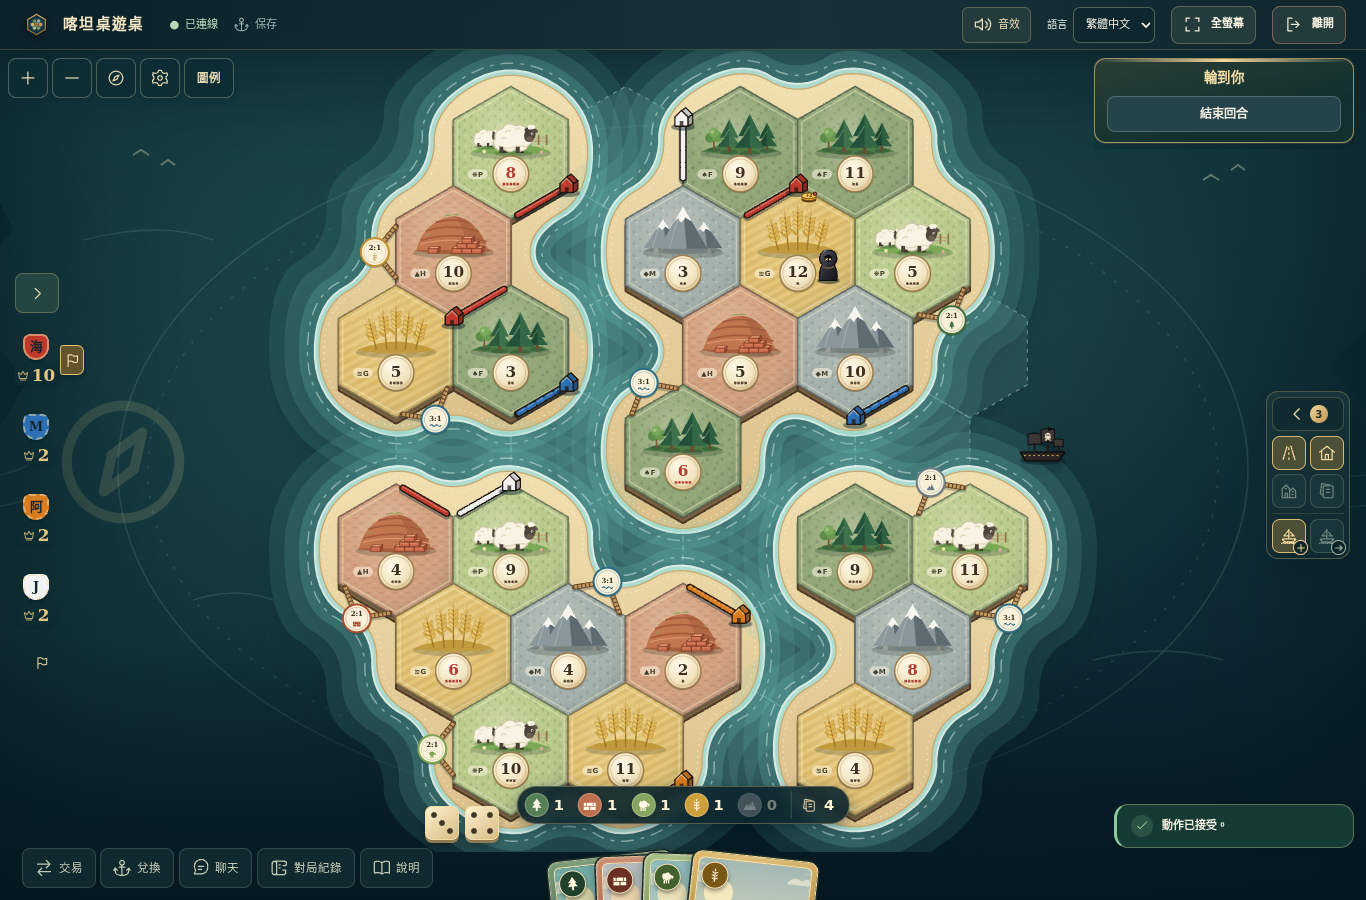
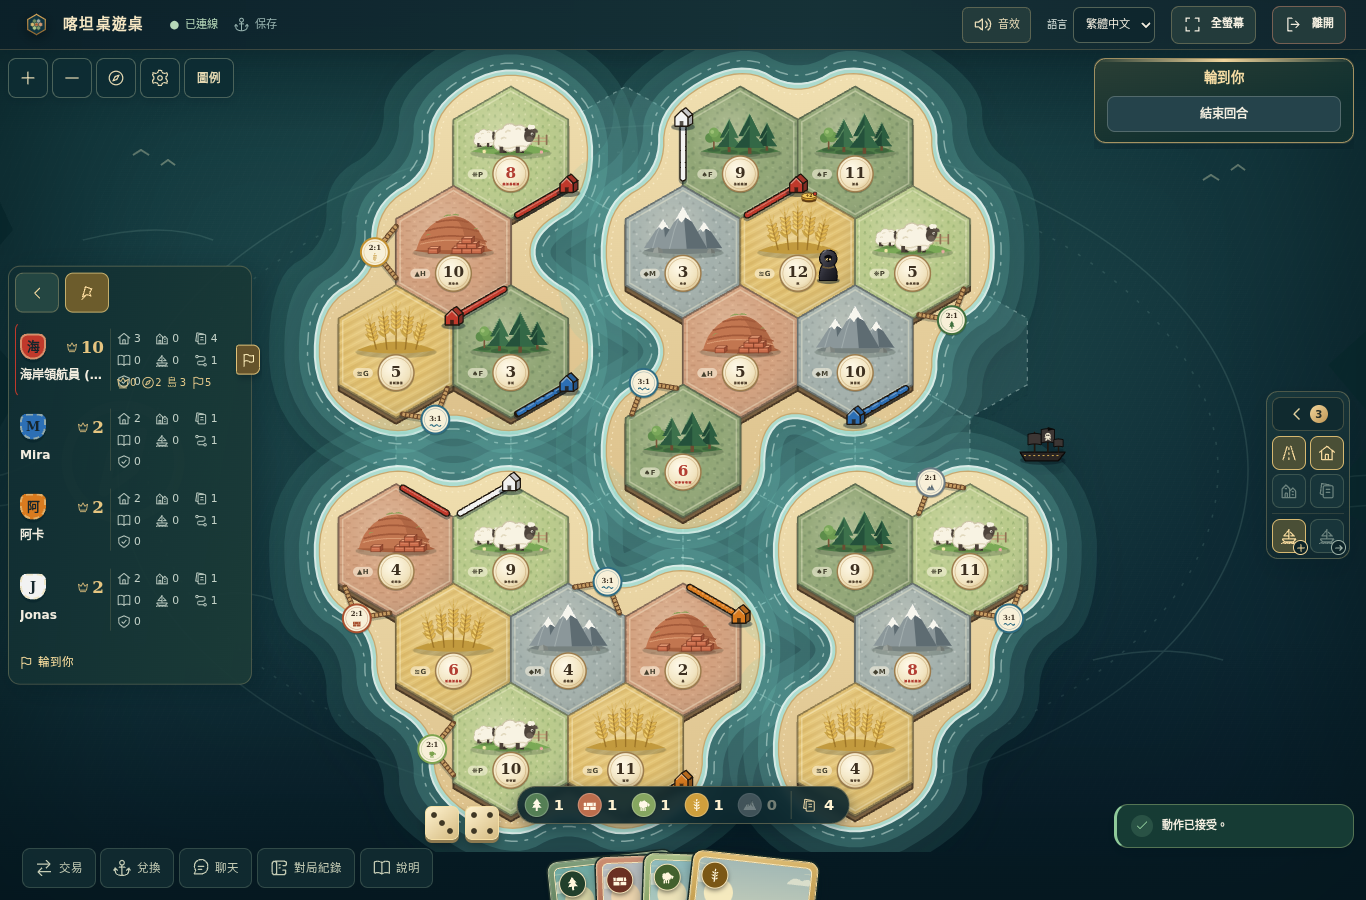
👷 ci(rules): drive the four islands finish across both renderers
Pin and expand the player panel to assert the island list (desktop and
phone), settle the second island in the 3D renderer and assert the
canvas token count. Waits and screenshots honour SF_TIMEOUT so a busy
machine does not flake. 10 curated captures.

Changed region(s): [[0.0, 0.28, 0.2152, 0.6844], [0.0, 0.7156, 0.0615, 0.7467]]

diff --git a/scripts/seafarers/capture_four_islands.py b/scripts/seafarers/capture_four_islands.py
@@ -133,10 +133,19 @@ def finish_live(contexts, pages, identity, game_id):
         ui_confirm(page)
 
     def expand_players(page_):
+        """Open the player panel and pin it (a hover preview closes when the pointer leaves)."""
         toggle = page_.get_by_test_id('players-toggle')
+        # 指標移到按鈕上就會開出預覽；先 hover 再看狀態，避免接著的點擊把預覽收掉。
+        toggle.hover()
+        page_.wait_for_timeout(600)
         if toggle.get_attribute('aria-expanded') != 'true':
             toggle.click()
+        pin = page_.get_by_test_id('players-pin')
+        expect(pin).to_be_visible()
+        if pin.get_attribute('aria-pressed') != 'true':
+            pin.click()
         page_.wait_for_timeout(500)
+        assert toggle.get_attribute('aria-expanded') == 'true'
 
     def check_islands_mark(page_, island):
         """The island list is visible text (touch has no title), the wording has no 'small'."""
@@ -206,7 +215,13 @@ def run():
                 expect(host.get_by_test_id('help-four-islands-bonus')).to_be_visible()
                 shot(host, 'help-four-islands-svg-desktop', f'setup done, home islands {home}; help panel shows the Four Islands rules')
             if count == 4:
-                finish_live(contexts, pages, identity, game_id)
+                try:
+                    finish_live(contexts, pages, identity, game_id)
+                except Exception:
+                    pages[0].screenshot(path=str(OUT / 'failure.png'), timeout=base.TIMEOUT)
+                    print('PLAYERS', pages[0].get_by_test_id('players-toggle').get_attribute('aria-expanded'),
+                          pages[0].locator('[data-testid^="players-islands"]').count(), flush=True)
+                    raise
             for context in contexts:
                 context.close()
         browser.close()

diff --git a/scripts/seafarers/capture.py b/scripts/seafarers/capture.py
@@ -145,7 +145,7 @@ def settle(page, ms=700):
 def shot(page, name, note='', ms=700):
     settle(page, ms)
     path = OUT / f'{name}.png'
-    page.screenshot(path=str(path), animations='disabled')
+    page.screenshot(path=str(path), animations='disabled', timeout=TIMEOUT)
     digest = hashlib.sha256(path.read_bytes()).hexdigest()
     REPORT['cases'].append({'name': name, 'status': 'PASS', 'note': note, 'sha256': digest,
                             'viewport': page.viewport_size})
@@ -155,10 +155,10 @@ def shot(page, name, note='', ms=700):
 def wait_renderer(page, renderer):
     page.wait_for_function(
         "(renderer) => document.querySelector('[data-testid=\"board\"]')?.dataset.effectiveRenderer === renderer",
-        arg=renderer, timeout=30000)
+        arg=renderer, timeout=TIMEOUT)
     if renderer == 'r3f':
         page.wait_for_function(
-            "() => document.querySelector('[data-testid=\"board\"]')?.dataset.rendererStatus === 'ready'", timeout=30000)
+            "() => document.querySelector('[data-testid=\"board\"]')?.dataset.rendererStatus === 'ready'", timeout=TIMEOUT)
 
 
 def open_game(page, game_id, renderer):

diff --git a/docs/aegis/work/2026-11-22-seafarers-four-islands.md b/docs/aegis/work/2026-11-22-seafarers-four-islands.md
@@ -193,13 +193,12 @@ number 12 disc"). Pirate: on the frame (`pirate: null`). Island sizes: 2 → 4,
   3- and 4-player starts, home islands, mid-game restart, a 13-point finish.
 - Web: SVG board (hexes, nine harbors, pirate on the frame), coastline loop
   for the frame, help panel in both locales.
-- Browser: `scripts/seafarers/capture_four_islands.py`, 13 cases and no page
+- Browser: `scripts/seafarers/capture_four_islands.py`, 14 cases and no page
   errors (Chromium, software WebGL): lobby, both maps in SVG and 3D (desktop
   and phone), setup spread over the islands with the help panel, then a live
   finish through the UI. A test-only fixture (service stopped) gives player 1
   the turn, building cards, 5 other bonus points and a road to an empty spot on
-  each of two non-home islands; player 1 then settles the first (+2: token in
-  SVG and 3D, island list in the player panel) and the second (+2, 13 VP,
+  each of two non-home islands; player 1 then settles the first island in the SVG renderer (+2: token, island list as visible text in the pinned player panel, also at phone width; the 3D canvas reports `data-island-tokens`) and the second in the 3D renderer (+2, 13 VP,
   result screen). The run fails if a token or the result screen is missing.
   Report and 10 curated captures: `docs/screenshots/seafarers-four-islands/`.
 
